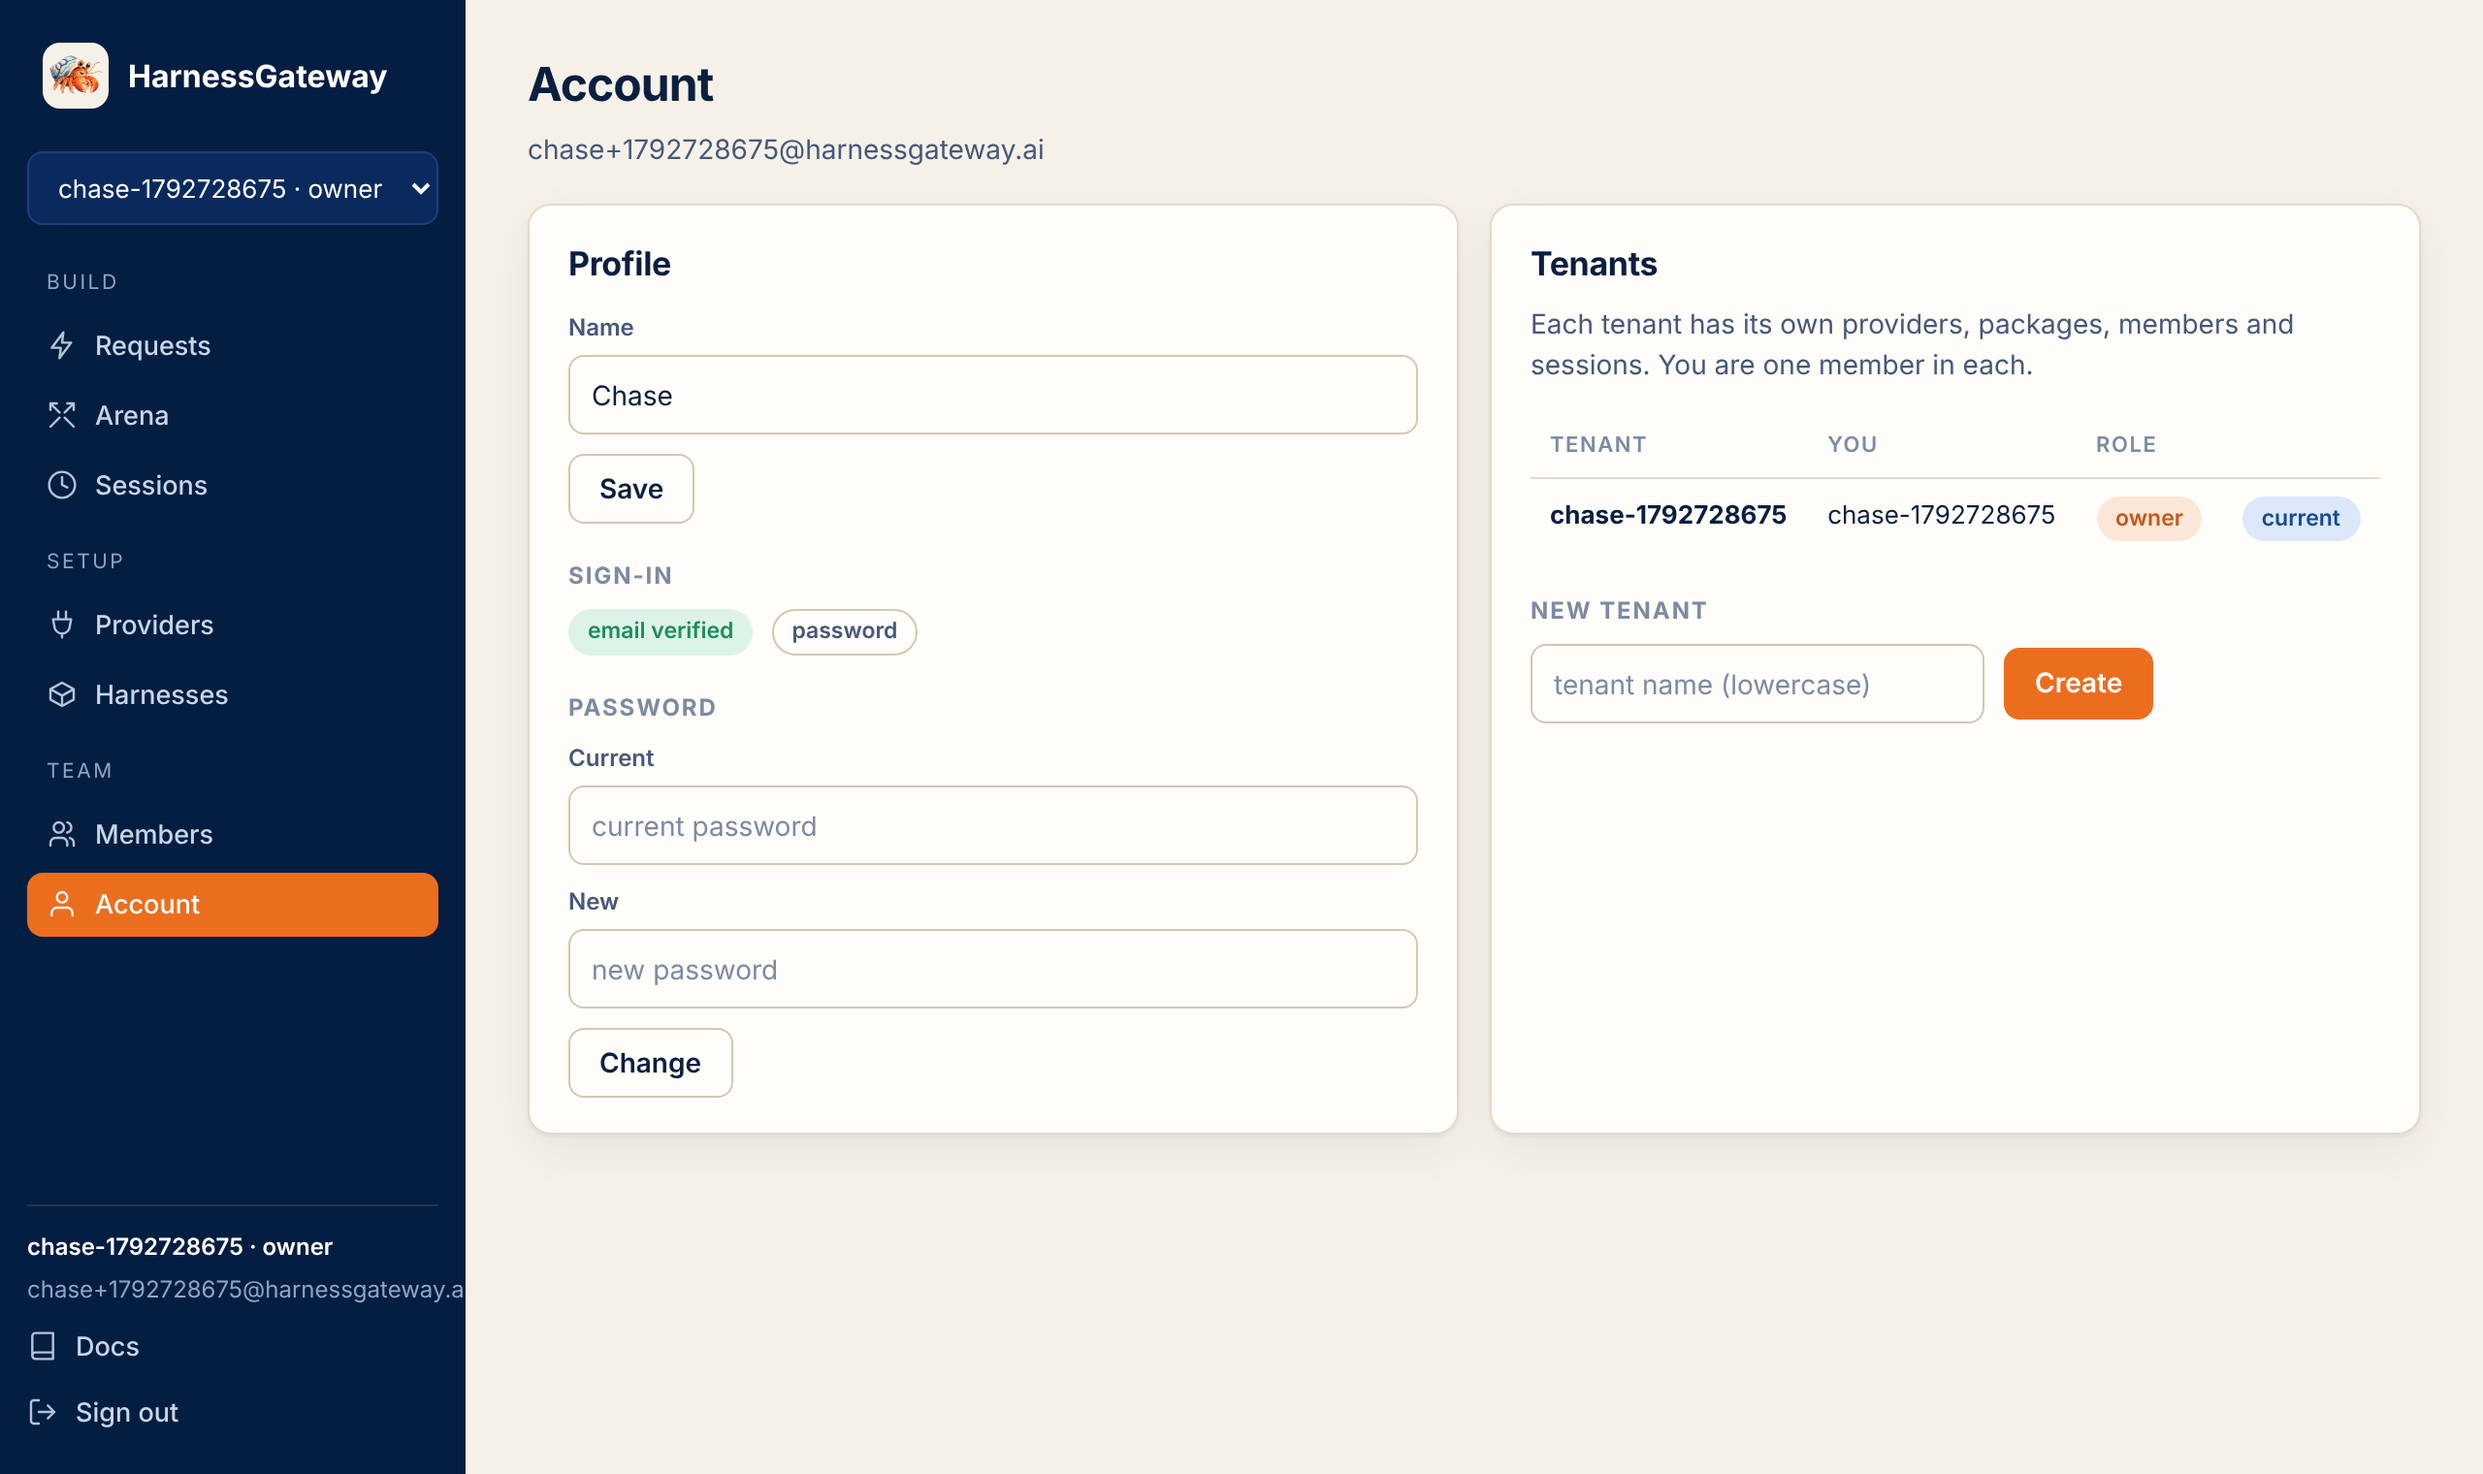
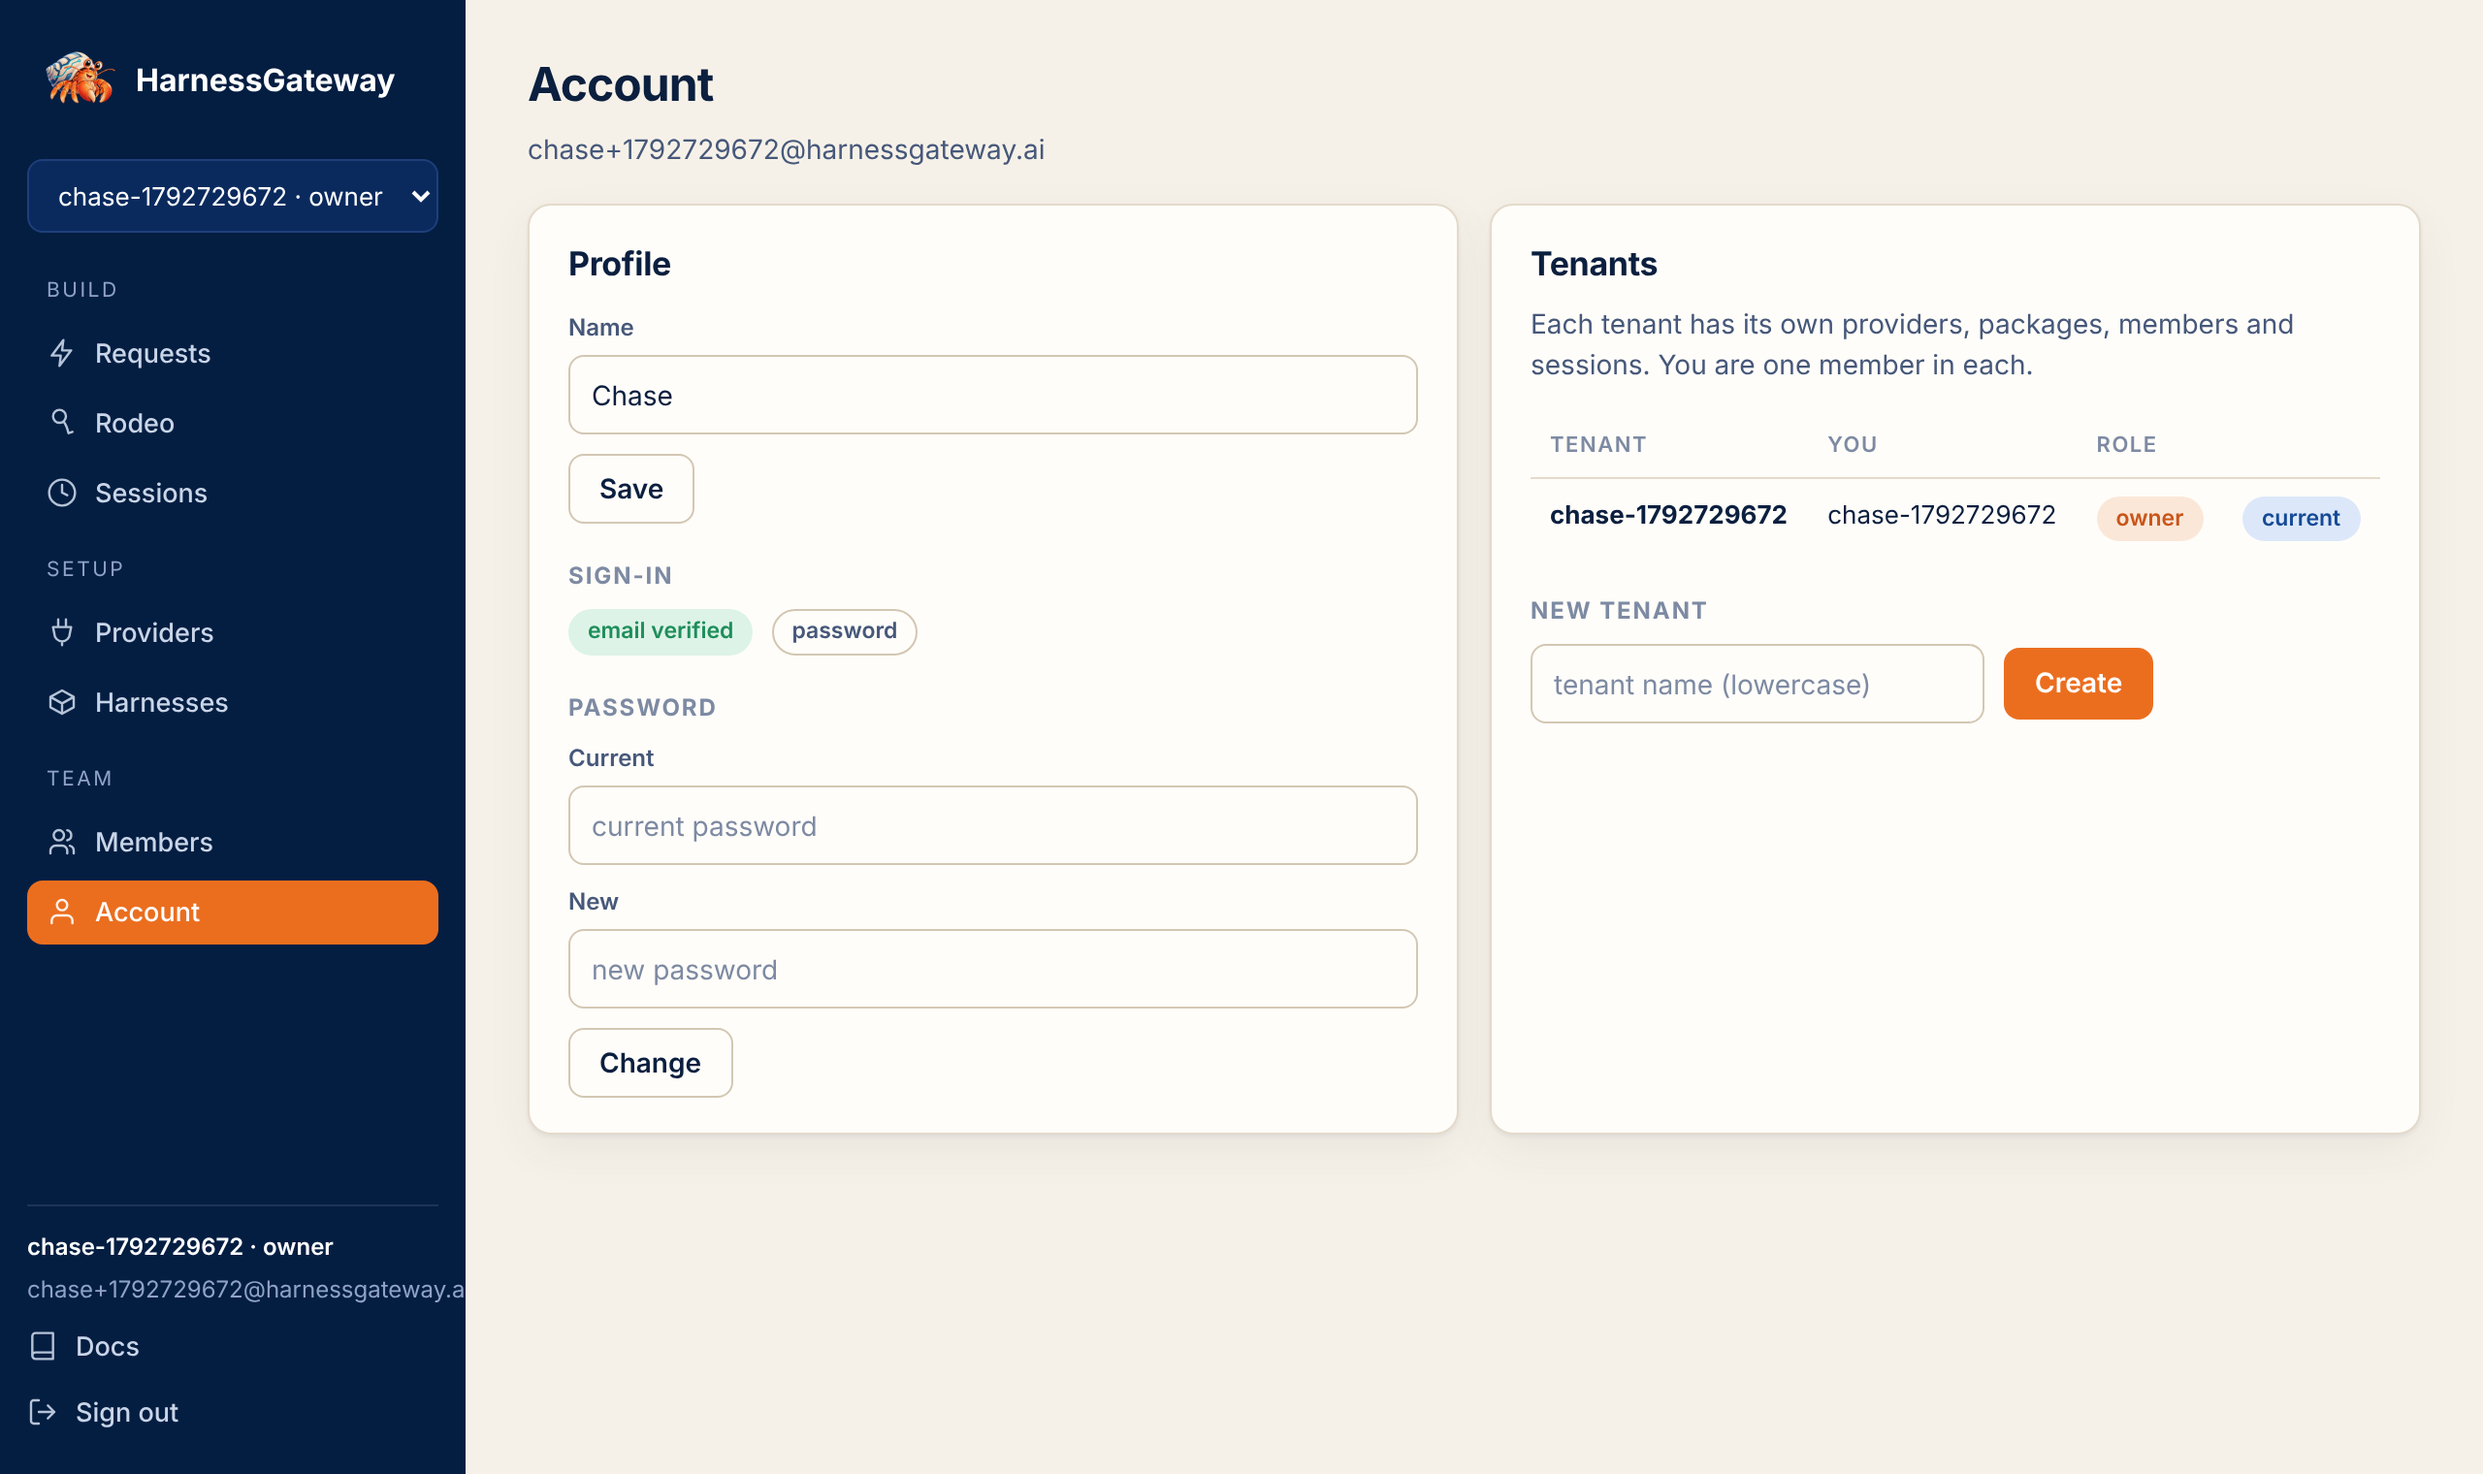
Picky, updated, with no square behind it
The newest portrait everywhere, and the app's sidebar, the sign-in page and
the documentation's header show the crab alone on the navy. Screenshots
retaken. 6.1.1.

Claude-Session: https://claude.ai/code/session_01ERRZXAJHGKJWMvAyf4LasW

diff --git a/web/style.css b/web/style.css
@@ -66,7 +66,7 @@ th { color:var(--muted); font-weight:600; font-size:11px; text-transform:upperca
 /* the app shell: a sidebar and a page */
 .shell { display:grid; grid-template-columns:240px 1fr; min-height:100vh; }
 .side { background:var(--navy); color:#DCE5F3; padding:18px 14px; display:flex; flex-direction:column; gap:4px; position:sticky; top:0; height:100vh; overflow:auto; }
-.side .brand { display:flex; align-items:center; gap:10px; padding:4px 8px 14px; color:#fff; font-weight:700; font-size:16px; text-decoration:none; } .side .brand img { width:34px; height:34px; border-radius:9px; background:var(--bg); padding:3px; }
+.side .brand { display:flex; align-items:center; gap:10px; padding:4px 8px 14px; color:#fff; font-weight:700; font-size:16px; text-decoration:none; } .side .brand img { width:38px; height:38px; }
 .side .group { font-size:10.5px; text-transform:uppercase; letter-spacing:.12em; color:#8FA3C6; padding:12px 10px 4px; }
 .side a.item, .side button.item { display:flex; align-items:center; gap:9px; width:100%; text-align:left; background:none; border:0; color:#C9D5E8; padding:8px 10px; border-radius:8px; font-weight:500; font-size:13.5px; }
 .side .item:hover { background:rgba(255,255,255,.07); color:#fff; text-decoration:none; } .side .item.on { background:var(--orange); color:#fff; }
@@ -81,7 +81,7 @@ th { color:var(--muted); font-weight:600; font-size:11px; text-transform:upperca
 @media (max-width:900px) {
   .shell { grid-template-columns:1fr; } .side { display:none; }
   .topbar { display:flex; align-items:center; gap:10px; padding:10px 16px; background:var(--navy); color:#fff; position:sticky; top:0; z-index:5; overflow-x:auto; }
-  .topbar img { width:26px; height:26px; border-radius:7px; background:var(--bg); padding:2px; } .topbar b { white-space:nowrap; }
+  .topbar img { width:28px; height:28px; } .topbar b { white-space:nowrap; }
   .topbar button { background:none; border:0; color:#C9D5E8; padding:6px 8px; white-space:nowrap; font-weight:500; } .topbar button.on { color:var(--orange); }
   .page { padding:18px 16px 40px; }
 }
@@ -89,7 +89,7 @@ th { color:var(--muted); font-weight:600; font-size:11px; text-transform:upperca
 /* sign in */
 .auth { min-height:100vh; display:grid; grid-template-columns:1.1fr 1fr; }
 .auth .side-art { background:var(--navy); color:#DCE5F3; padding:48px; display:flex; flex-direction:column; justify-content:space-between; }
-.auth .side-art .brand { display:flex; align-items:center; gap:12px; color:#fff; font-weight:700; font-size:18px; text-decoration:none; } .auth .side-art .brand img { width:40px; height:40px; border-radius:10px; background:var(--bg); padding:3px; }
+.auth .side-art .brand { display:flex; align-items:center; gap:12px; color:#fff; font-weight:700; font-size:18px; text-decoration:none; } .auth .side-art .brand img { width:44px; height:44px; }
 .auth .side-art h1 { color:#fff; font-size:34px; line-height:1.1; margin:0 0 14px; } .auth .side-art h1 em { color:var(--orange); font-style:normal; }
 .auth .side-art p { max-width:460px; color:#B7C6E0; font-size:15px; }
 .auth .side-art img.mascot { width:220px; margin-top:24px; filter:drop-shadow(0 20px 40px rgba(0,0,0,.35)); }

diff --git a/docs/assets/extra.css b/docs/assets/extra.css
@@ -20,7 +20,7 @@
   --md-text-font: "Inter";
 }
 .md-header, .md-tabs { background-color: #041E42; }
-.md-header__button.md-logo img { border-radius: 8px; background: #F6F1E8; padding: 2px; height: 1.6rem; width: 1.6rem; }
+.md-header__button.md-logo img { height: 1.8rem; width: 1.8rem; }
 .md-search__form { background-color: rgba(255,255,255,.1); }
 .md-typeset h1, .md-typeset h2 { color: #041E42; font-weight: 700; letter-spacing: -.01em; }
 .md-typeset h2 { border-bottom: 1px solid #E4DACB; padding-bottom: .2em; }

diff --git a/CHANGELOG.md b/CHANGELOG.md
@@ -4,6 +4,11 @@ Every release is a section here, newest first, and the newest section's heading 
 A merge to `main` that adds a section releases it: the release workflow tags that version, builds
 the wheel and the image, and publishes the section as its notes.
 
+## [6.1.1]
+
+- **Picky, updated.** The newest portrait, everywhere, and no square behind it on the navy: the
+  app's sidebar, the sign-in page and the documentation's header show the crab alone.
+
 ## [6.1.0]
 
 - **The arena is the rodeo.** The page, the records and the routes are named for it:
